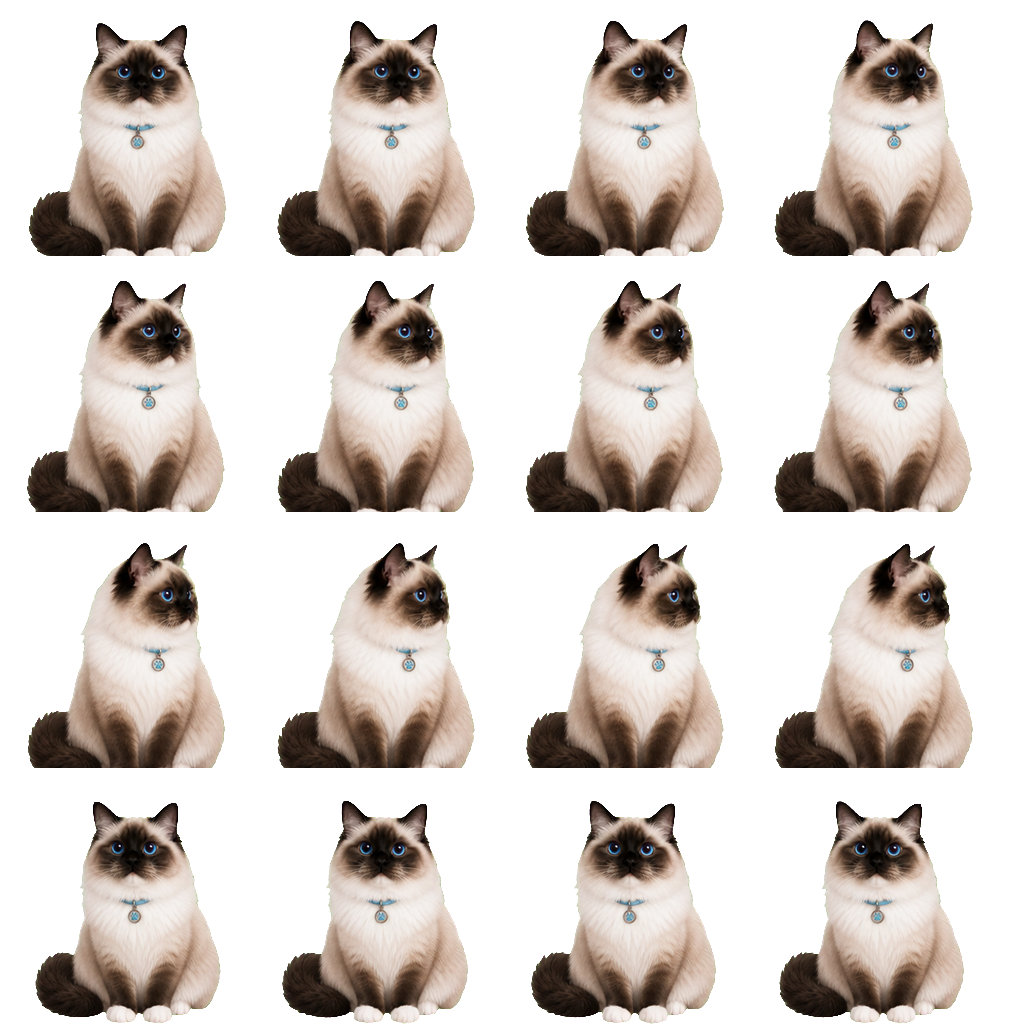
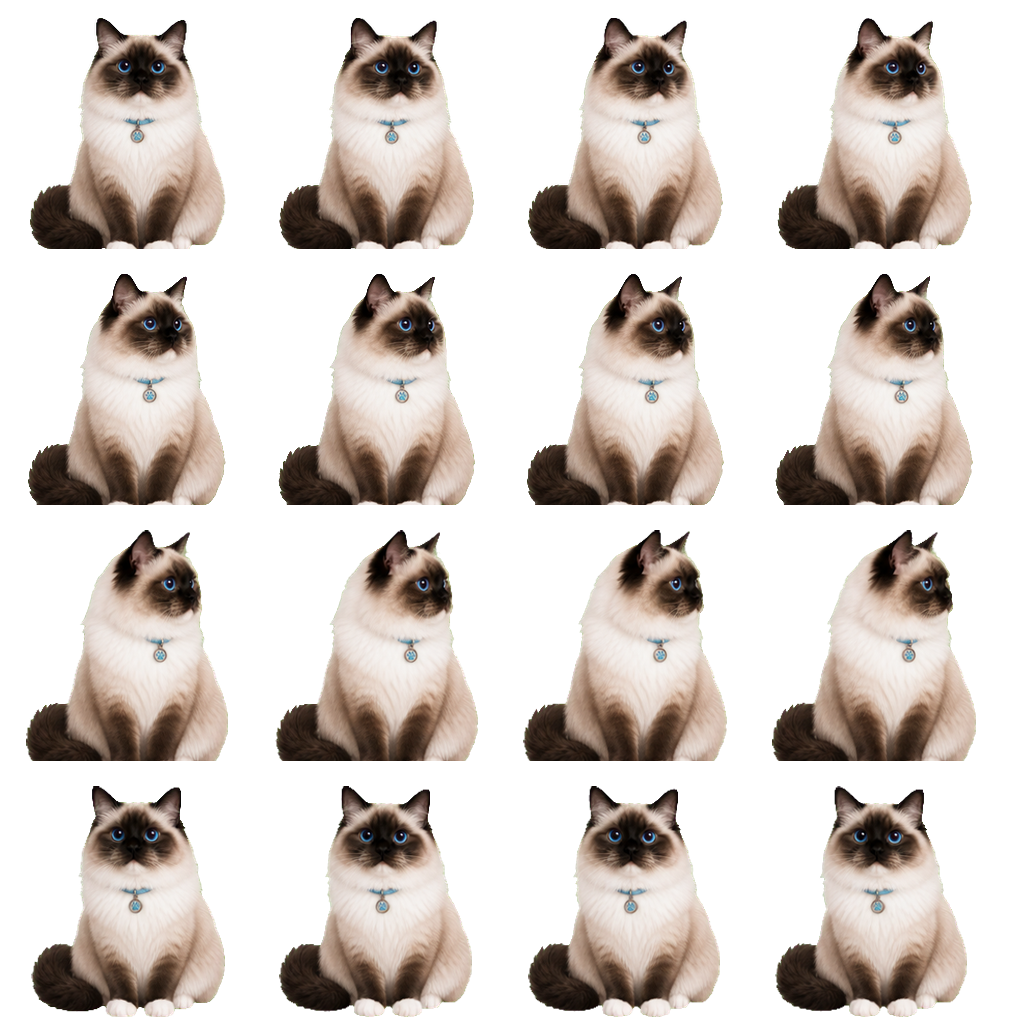
fix: simplify cat duty animations

diff --git a/src/components/ui/CatDuty.jsx b/src/components/ui/CatDuty.jsx
@@ -5,18 +5,17 @@ import Image from 'next/image'
 import { Cake } from 'lucide-react'
 import { Solar } from 'lunar-javascript'
 
-import { getCatActionForHour, getSpriteFrame } from '@/lib/cat-animation'
+import {
+  getSignatureCatAction,
+  getSpriteFrame,
+  getSpriteFrameIndex,
+  shouldShowCatFallback,
+} from '@/lib/cat-animation'
 
 const cats = [
   {
     name: '雪宝',
     image: '/assets/cats/v2/xuebao.png',
-    actions: [
-      { id: 'wave', src: '/videos/cats/v2/xuebao/wave.png?v=2', columns: 4, rows: 4, frameCount: 16, fps: 8 },
-      { id: 'stretch', src: '/videos/cats/v2/xuebao/stretch.png?v=2', columns: 4, rows: 4, frameCount: 16, fps: 7 },
-      { id: 'hop', src: '/videos/cats/v2/xuebao/hop.png?v=2', columns: 4, rows: 4, frameCount: 16, fps: 10 },
-      { id: 'typing', src: '/videos/cats/v2/xuebao/typing.png?v=2', columns: 4, rows: 4, frameCount: 16, fps: 9 },
-    ],
     role: '代码猫',
     gender: '♂',
     birthday: '02/18',
@@ -37,12 +36,6 @@ const cats = [
   {
     name: '甜枣',
     image: '/assets/cats/v2/tianzao.png',
-    actions: [
-      { id: 'wave', src: '/videos/cats/v2/tianzao/wave.png?v=2', columns: 4, rows: 4, frameCount: 16, fps: 8 },
-      { id: 'idle', src: '/videos/cats/v2/tianzao/idle.png?v=2', columns: 4, rows: 4, frameCount: 16, fps: 6 },
-      { id: 'yawn', src: '/videos/cats/v2/tianzao/yawn.png?v=2', columns: 4, rows: 4, frameCount: 16, fps: 7 },
-      { id: 'tail', src: '/videos/cats/v2/tianzao/tail.png?v=2', columns: 4, rows: 4, frameCount: 16, fps: 7 },
-    ],
     role: '咖啡陪伴猫',
     gender: '♀',
     birthday: '08/18',
@@ -63,12 +56,6 @@ const cats = [
   {
     name: '三塔',
     image: '/assets/cats/v2/santa.png',
-    actions: [
-      { id: 'gesture', src: '/videos/cats/v2/santa/gesture.png?v=2', columns: 4, rows: 4, frameCount: 16, fps: 8 },
-      { id: 'look', src: '/videos/cats/v2/santa/look.png?v=2', columns: 4, rows: 4, frameCount: 16, fps: 7 },
-      { id: 'yawn', src: '/videos/cats/v2/santa/yawn.png?v=2', columns: 4, rows: 4, frameCount: 16, fps: 7 },
-      { id: 'sway', src: '/videos/cats/v2/santa/sway.png?v=2', columns: 4, rows: 4, frameCount: 16, fps: 9 },
-    ],
     role: '黑客猫',
     gender: '♂',
     birthday: '04/07',
@@ -135,7 +122,7 @@ function getDutyCat() {
   const catIndex = day % cats.length
   const cat = cats[catIndex]
   const quoteIndex = Math.floor(day / cats.length) % cat.quotes.length
-  const action = getCatActionForHour(cat.actions, now.getHours())
+  const action = getSignatureCatAction(cat.name)
   const dailyQuote = dailyQuotes[day % dailyQuotes.length]
 
   // 获取农历和节气
@@ -159,6 +146,7 @@ function SpriteAnimation({ action, fallbackSrc, size = 200 }) {
   const canvasRef = useRef(null)
   const [ready, setReady] = useState(false)
   const [reduceMotion, setReduceMotion] = useState(false)
+  const showFallback = shouldShowCatFallback(ready, reduceMotion, action)
 
   useEffect(() => {
     const media = window.matchMedia('(prefers-reduced-motion: reduce)')
@@ -183,8 +171,7 @@ function SpriteAnimation({ action, fallbackSrc, size = 200 }) {
 
     img.onload = () => {
       if (!active) return
-      const interval = 1000 / action.fps
-      let lastTime = 0
+      let startTime = null
       let frameIndex = 0
 
       const drawFrame = () => {
@@ -197,10 +184,15 @@ function SpriteAnimation({ action, fallbackSrc, size = 200 }) {
       setReady(true)
 
       const animate = (time) => {
-        if (time - lastTime >= interval) {
-          frameIndex++
+        if (startTime === null) startTime = time
+        const nextFrameIndex = getSpriteFrameIndex(
+          time - startTime,
+          action.fps,
+          action.frameCount,
+        )
+        if (nextFrameIndex !== frameIndex) {
+          frameIndex = nextFrameIndex
           drawFrame()
-          lastTime = time
         }
         animId = requestAnimationFrame(animate)
       }
@@ -221,7 +213,9 @@ function SpriteAnimation({ action, fallbackSrc, size = 200 }) {
 
   return (
     <div className="cat-animation">
-      <Image src={fallbackSrc} alt="" fill sizes="200px" className="cat-image" />
+      {showFallback ? (
+        <Image src={fallbackSrc} alt="" fill sizes="200px" className="cat-image" />
+      ) : null}
       {!reduceMotion && action ? (
         <canvas
           ref={canvasRef}

diff --git a/test/cat-animation.test.js b/test/cat-animation.test.js
@@ -1,21 +1,25 @@
 import assert from 'node:assert/strict'
 import test from 'node:test'
 
-import { getCatActionForHour, getSpriteFrame } from '../src/lib/cat-animation.js'
+import * as catAnimation from '../src/lib/cat-animation.js'
 
-const actions = [
-  { id: 'wave' },
-  { id: 'idle' },
-  { id: 'yawn' },
-  { id: 'tail' },
-]
+const { getSpriteFrame, getSpriteFrameIndex, shouldShowCatFallback } = catAnimation
 
-test('cat actions rotate every two hours and wrap after the last action', () => {
-  assert.equal(getCatActionForHour(actions, 0).id, 'wave')
-  assert.equal(getCatActionForHour(actions, 1).id, 'wave')
-  assert.equal(getCatActionForHour(actions, 2).id, 'idle')
-  assert.equal(getCatActionForHour(actions, 8).id, 'wave')
-  assert.equal(getCatActionForHour(actions, 23).id, 'tail')
+test('each cat always uses one signature looping action', () => {
+  assert.equal(typeof catAnimation.getSignatureCatAction, 'function')
+  const { getSignatureCatAction } = catAnimation
+
+  assert.deepEqual(getSignatureCatAction('雪宝'), {
+    id: 'typing',
+    src: '/videos/cats/v2/xuebao/typing.png?v=3',
+    columns: 4,
+    rows: 4,
+    frameCount: 16,
+    fps: 12,
+  })
+  assert.equal(getSignatureCatAction('甜枣').id, 'tail')
+  assert.equal(getSignatureCatAction('三塔').id, 'look')
+  assert.equal(getSignatureCatAction('不存在的小猫'), null)
 })
 
 test('sprite frames map left-to-right then top-to-bottom', () => {
@@ -47,6 +51,18 @@ test('sprite frames map left-to-right then top-to-bottom', () => {
   })
 })
 
-test('empty action collections return no selected action', () => {
-  assert.equal(getCatActionForHour([], 12), null)
+test('static fallback disappears after the first animation frame is ready', () => {
+  const action = { id: 'wave' }
+
+  assert.equal(shouldShowCatFallback(false, false, action), true)
+  assert.equal(shouldShowCatFallback(true, false, action), false)
+  assert.equal(shouldShowCatFallback(true, true, action), true)
+  assert.equal(shouldShowCatFallback(true, false, null), true)
+})
+
+test('animation frame index is derived from elapsed time', () => {
+  assert.equal(getSpriteFrameIndex(0, 12, 16), 0)
+  assert.equal(getSpriteFrameIndex(84, 12, 16), 1)
+  assert.equal(getSpriteFrameIndex(500, 12, 16), 6)
+  assert.equal(getSpriteFrameIndex(1400, 12, 16), 0)
 })

diff --git a/src/lib/cat-animation.js b/src/lib/cat-animation.js
@@ -1,6 +1,11 @@
-export function getCatActionForHour(actions, hour) {
-  if (!Array.isArray(actions) || actions.length === 0) return null
-  return actions[Math.floor(hour / 2) % actions.length]
+const signatureActions = {
+  雪宝: { id: 'typing', src: '/videos/cats/v2/xuebao/typing.png?v=3', columns: 4, rows: 4, frameCount: 16, fps: 12 },
+  甜枣: { id: 'tail', src: '/videos/cats/v2/tianzao/tail.png?v=3', columns: 4, rows: 4, frameCount: 16, fps: 10 },
+  三塔: { id: 'look', src: '/videos/cats/v2/santa/look.png?v=3', columns: 4, rows: 4, frameCount: 16, fps: 12 },
+}
+
+export function getSignatureCatAction(catName) {
+  return signatureActions[catName] ?? null
 }
 
 export function getSpriteFrame(frameIndex, action, imageWidth, imageHeight) {
@@ -14,4 +19,12 @@ export function getSpriteFrame(frameIndex, action, imageWidth, imageHeight) {
     sw,
     sh,
   }
+}
+
+export function shouldShowCatFallback(ready, reduceMotion, action) {
+  return !ready || reduceMotion || !action
+}
+
+export function getSpriteFrameIndex(elapsedTime, fps, frameCount) {
+  return Math.floor((elapsedTime * fps) / 1000) % frameCount
 }
